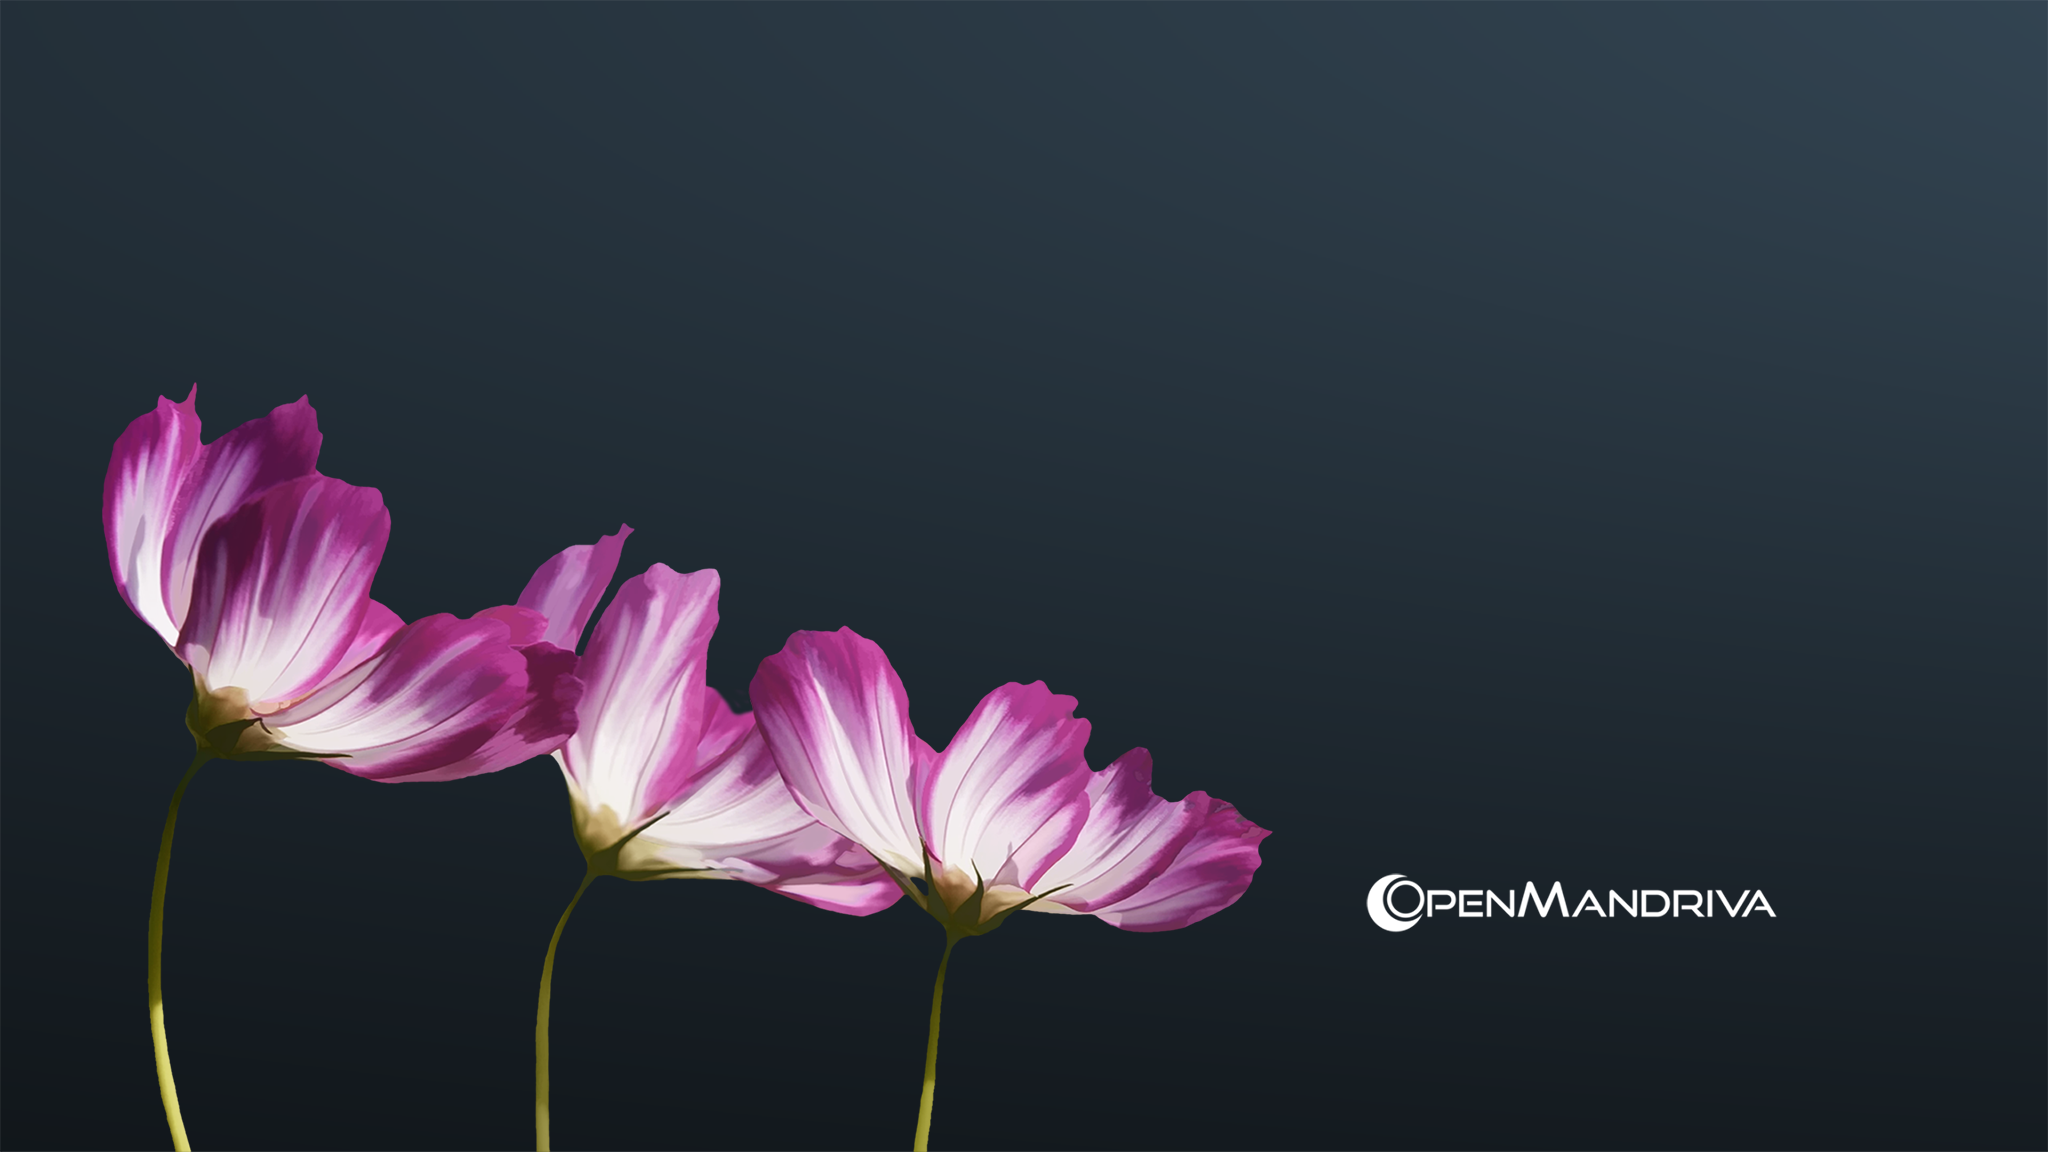
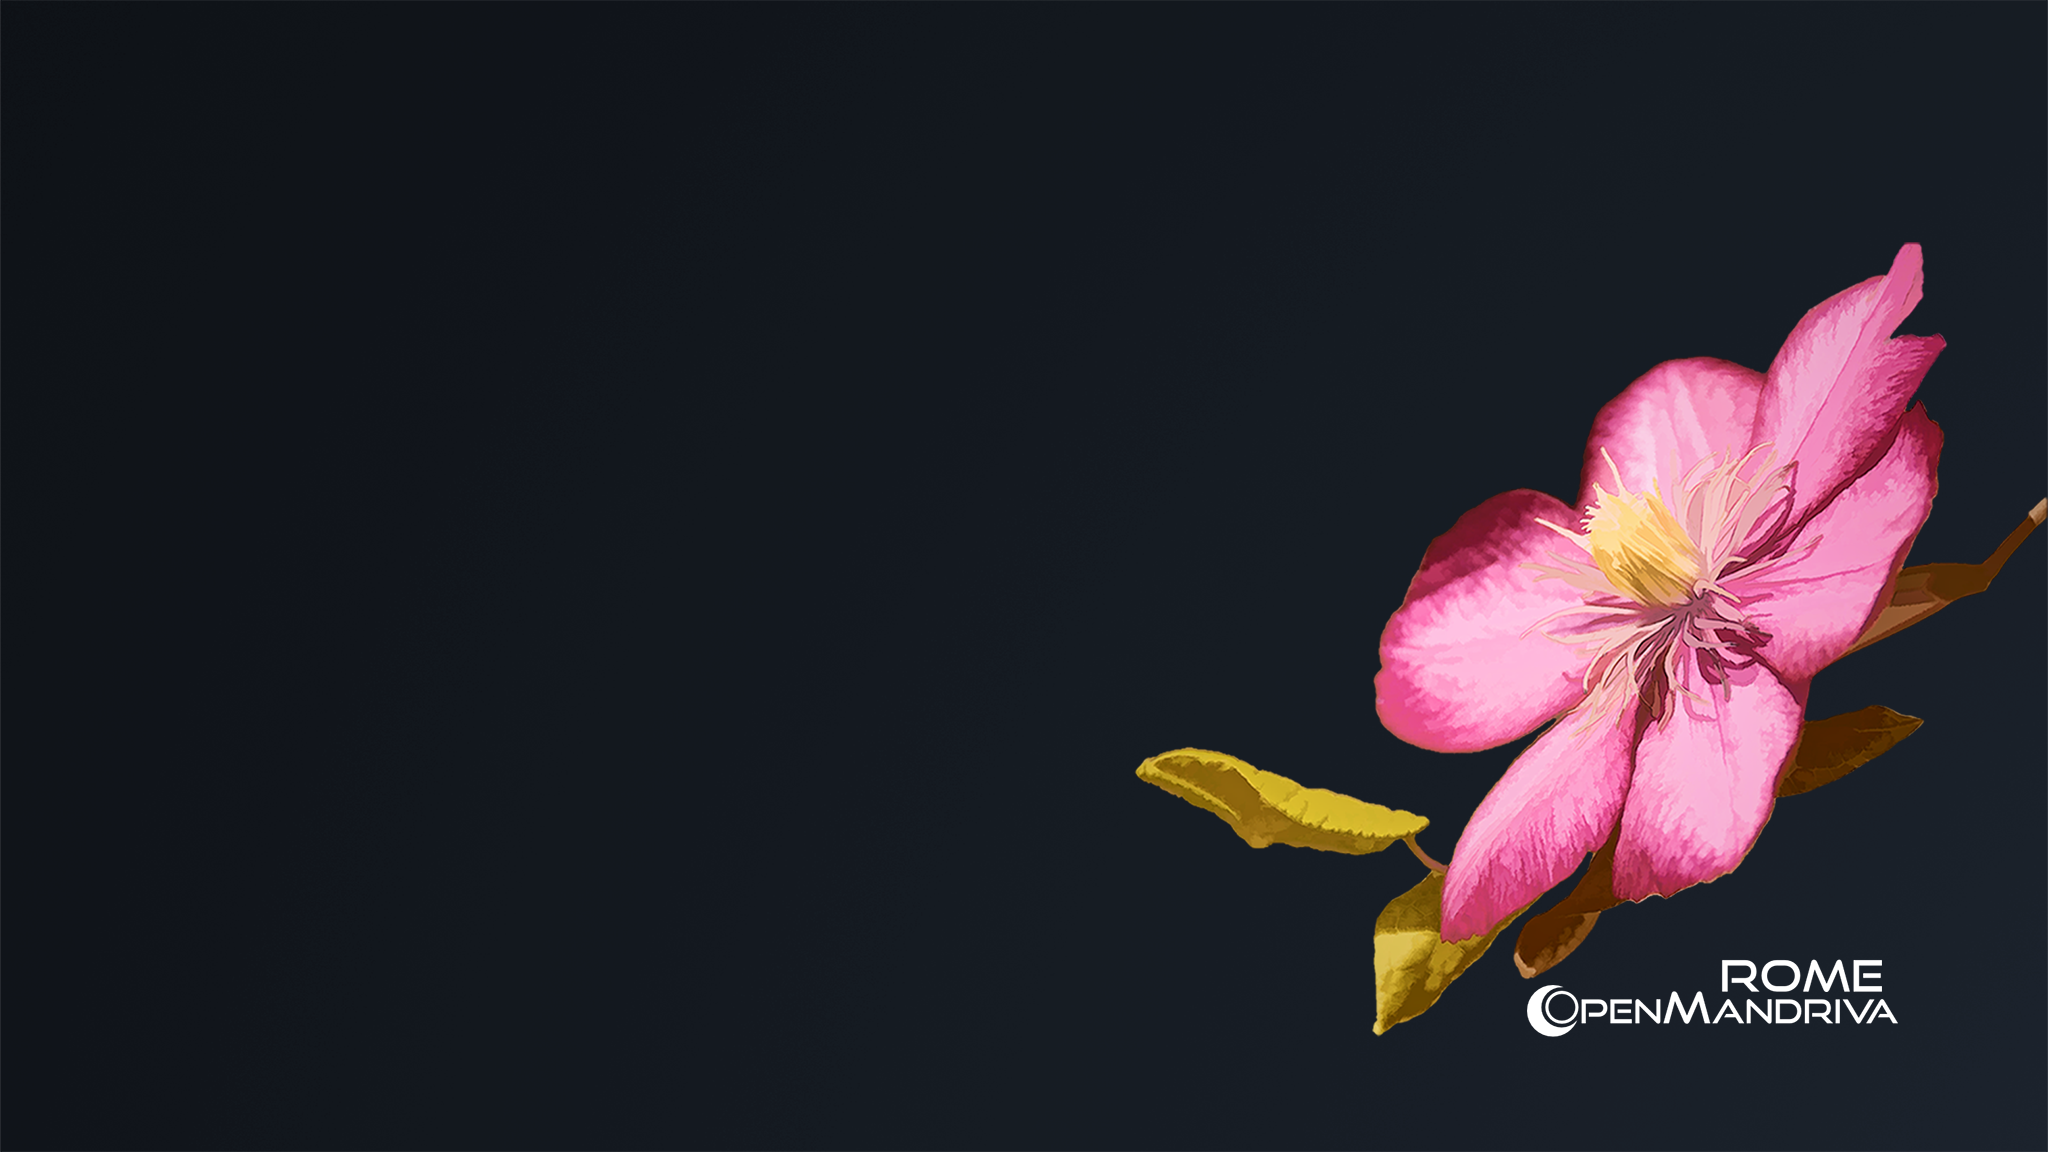
ROME branding

diff --git a/README.md b/README.md
@@ -1,4 +1,4 @@
-*Master branch*
+*ROME/rolling branch*
 
 This repository contains basic OpenMandriva Lx setup:
 - versioning
